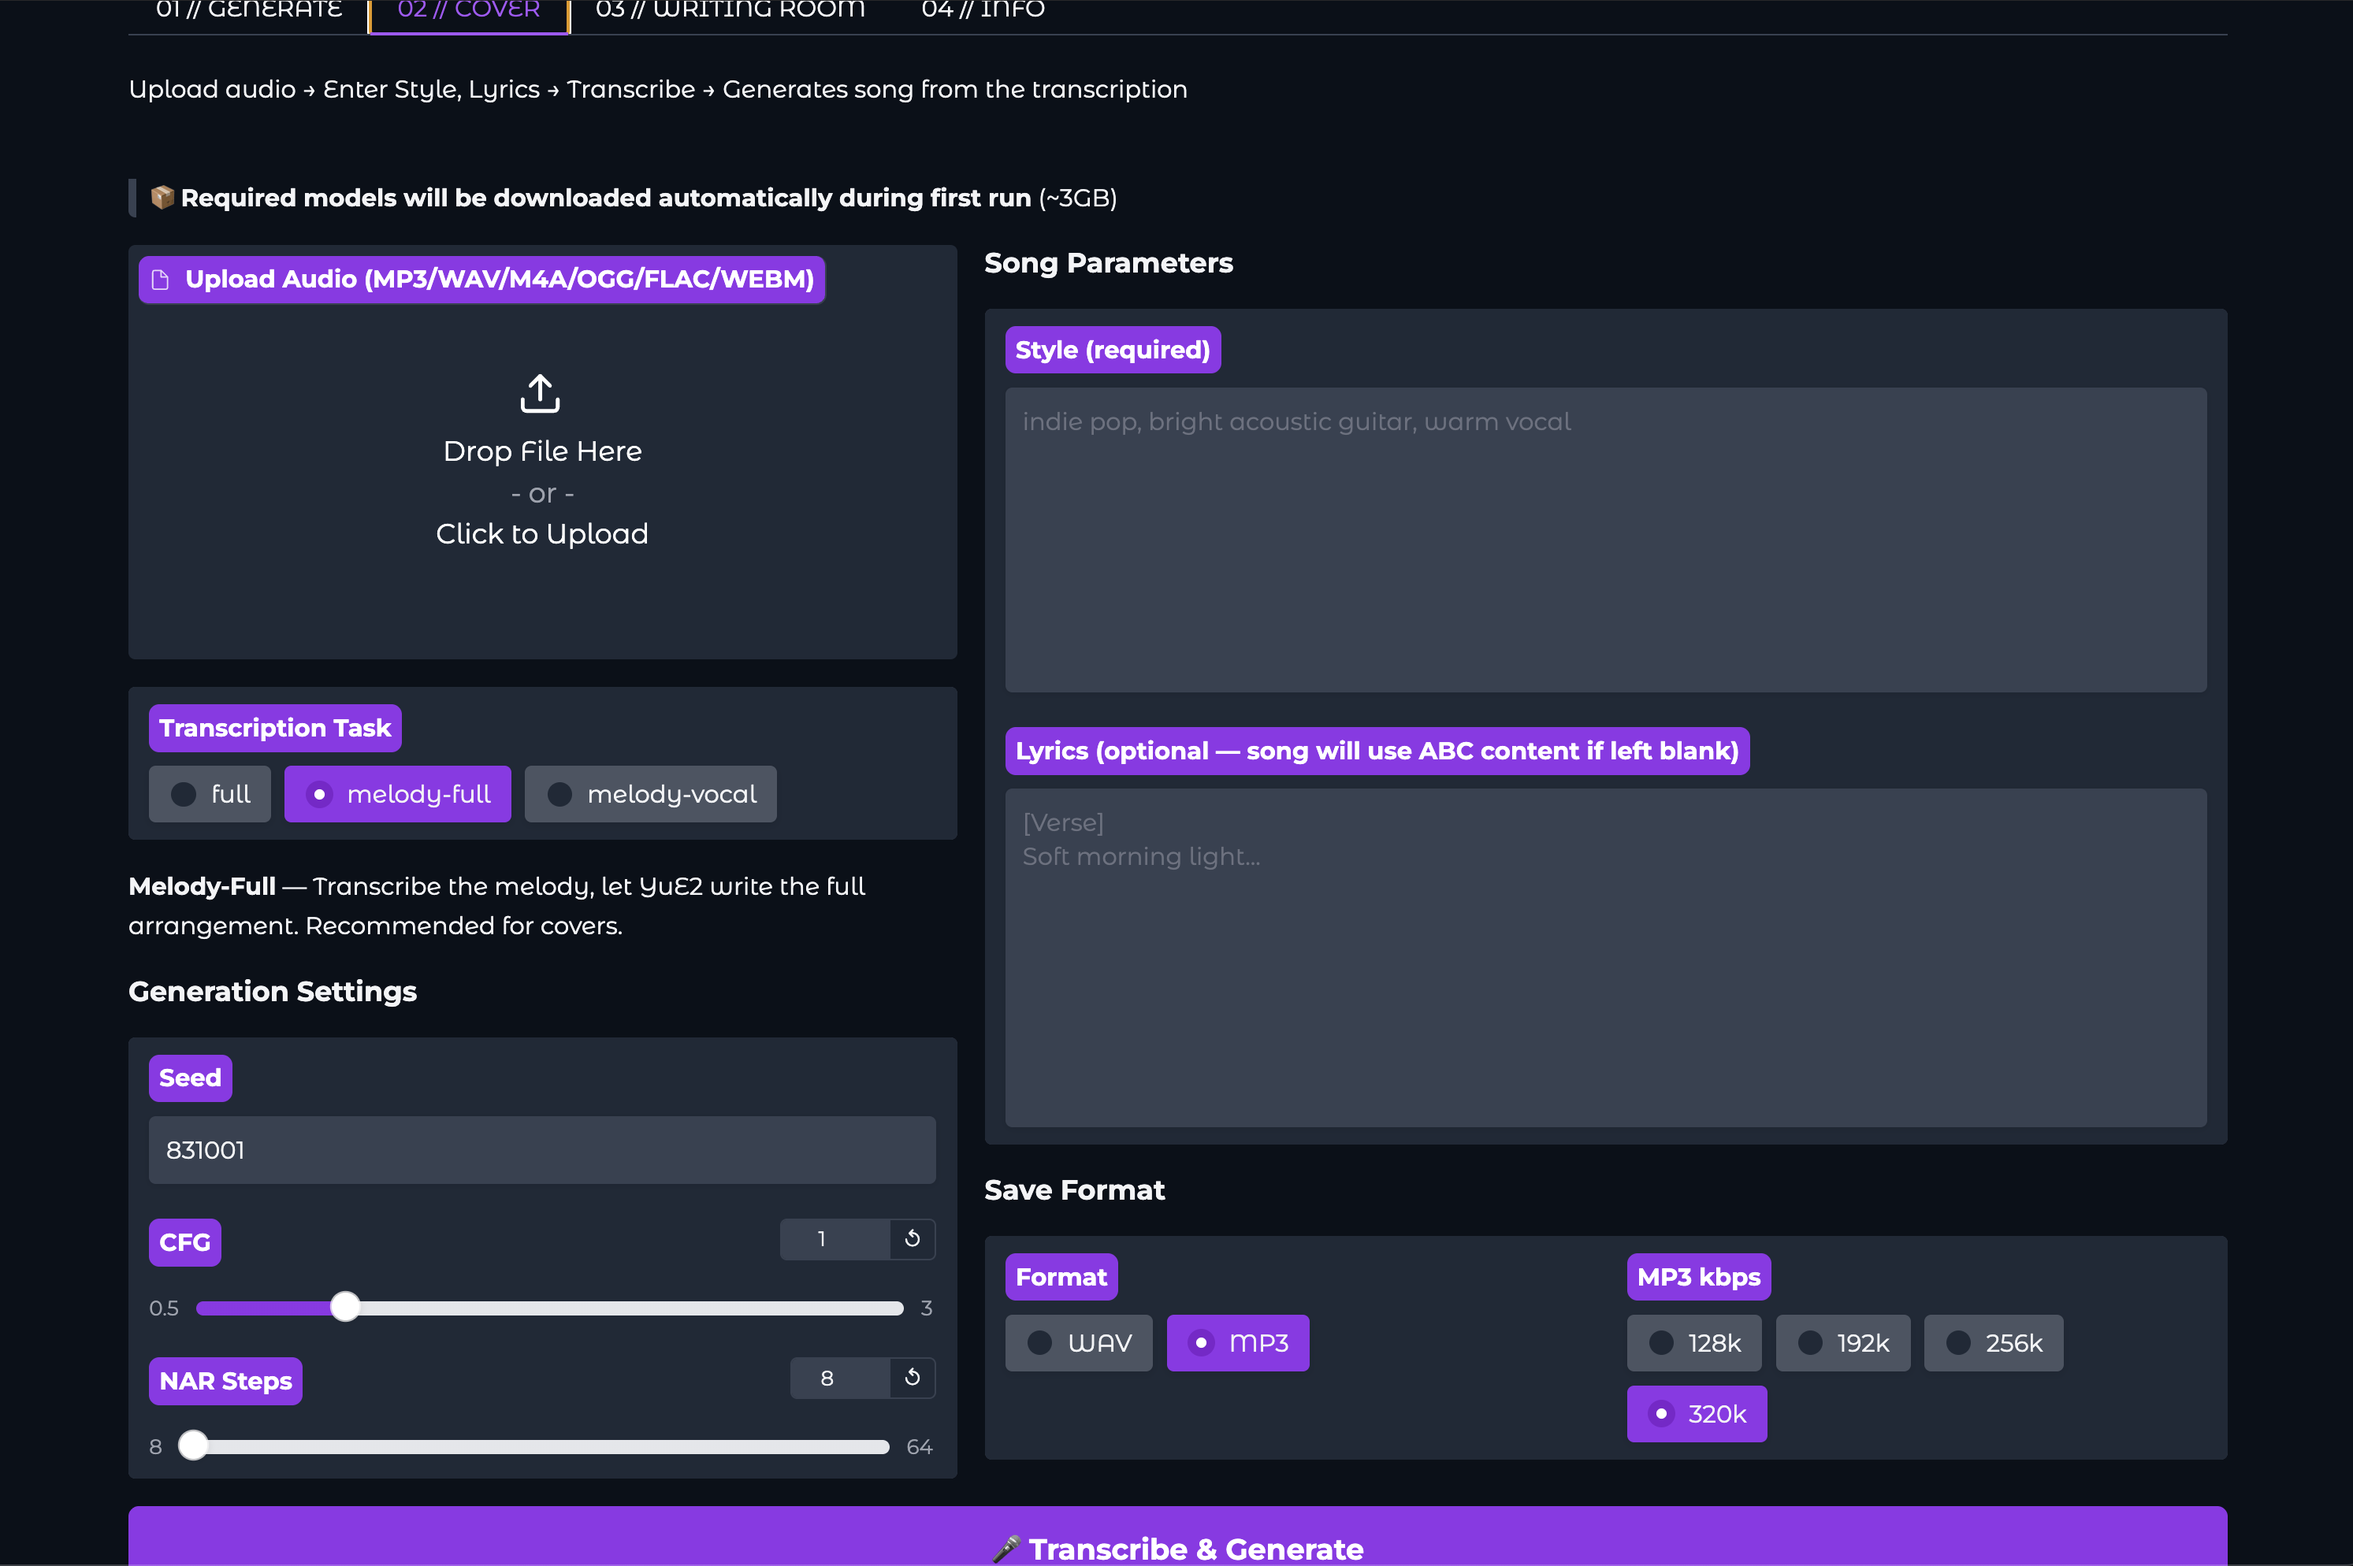
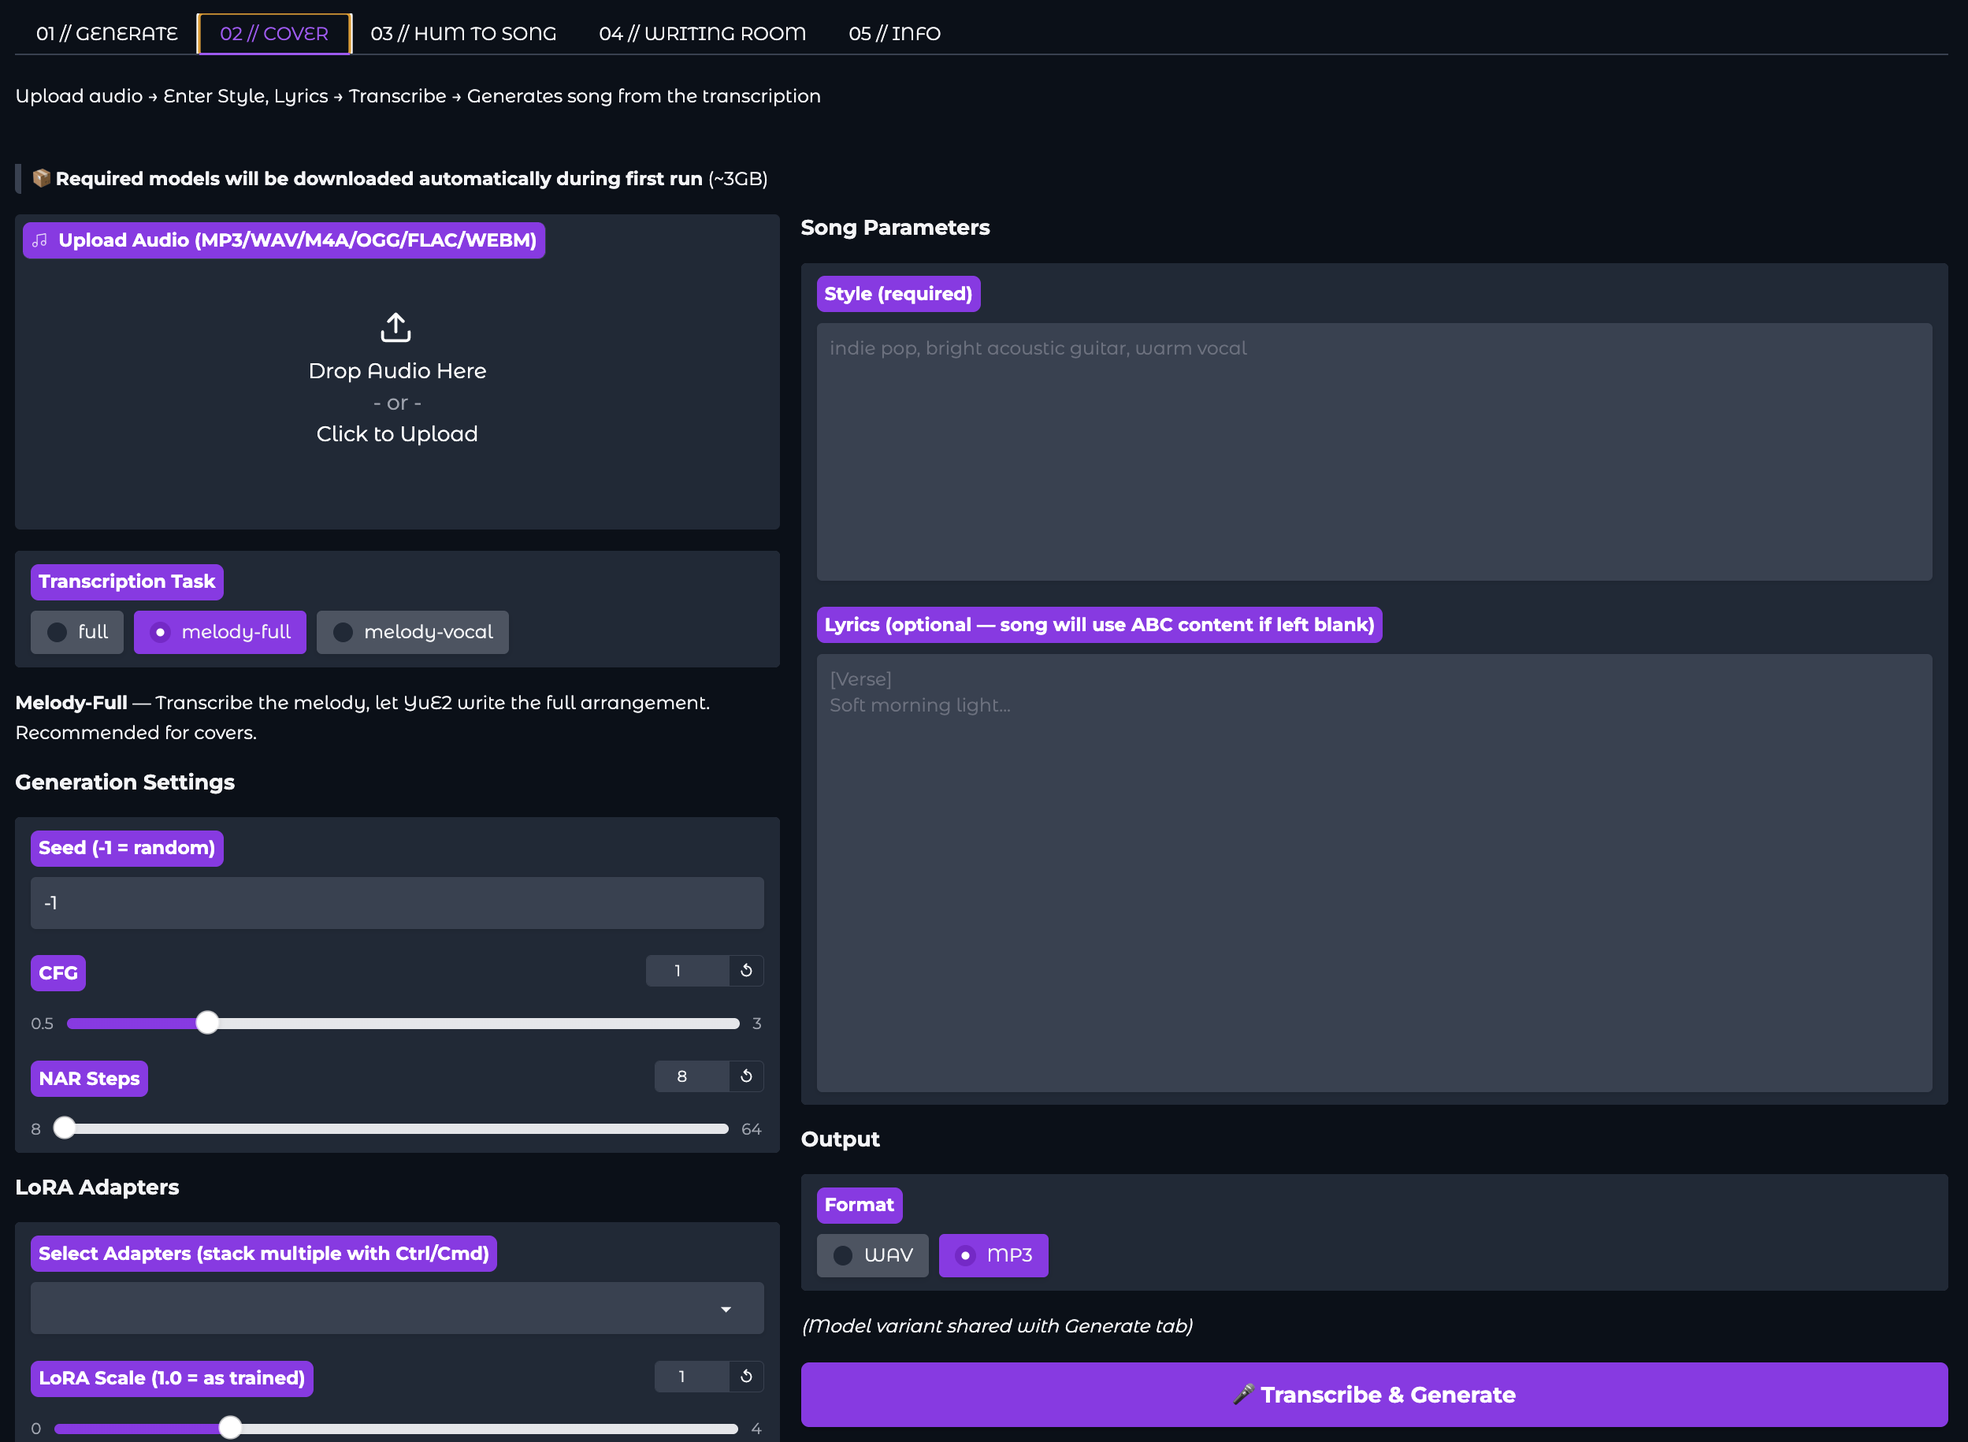
Add 2 files, Update 4 files

diff --git a/README.md b/README.md
@@ -14,6 +14,7 @@ YUE2 // MLX is a Mac-optimized Pinokio app that wraps the **YuE2-3B** music gene
 
 - **🎵 Original Song Generation** — Style + lyrics → 48 kHz stereo song
 - **🎵 Cover Song Generation** — Upload audio → Transcribe → Generate song from the transcription, with style and lyrics(optional) input.
+- **🎵 Hum to Song Generation** — Upload/record(Hum) a melody → Add style & lyrics → Generate a complete song, based on it with style and lyrics input.
 - **📝 LLM Writing Room** — Compose lyrics and styles with LM Studio / Ollama / any OpenAI-compatible API
 - **🎼 ABC Score Planning** — Generate editable chord-annotated music scores (full/melody/off modes)
 - **⚡ Pure MLX Backend** — No PyTorch, no CUDA dependencies
@@ -91,8 +92,14 @@ YUE2 // MLX is a Mac-optimized Pinokio app that wraps the **YuE2-3B** music gene
 ### Cover Tab
 ![Cover Tab](screenshots/cover.png)
 
+### Hum to Song Tab
+![Hum to Song Tab](screenshots/hum.png)
+
 ### LLM Writing Room
 ![Writing Room](screenshots/writing-room.png)
+
+### INFO Tab
+![INFO Tab](screenshots/info.png)
 
 ## 🔧 API Documentation
 
